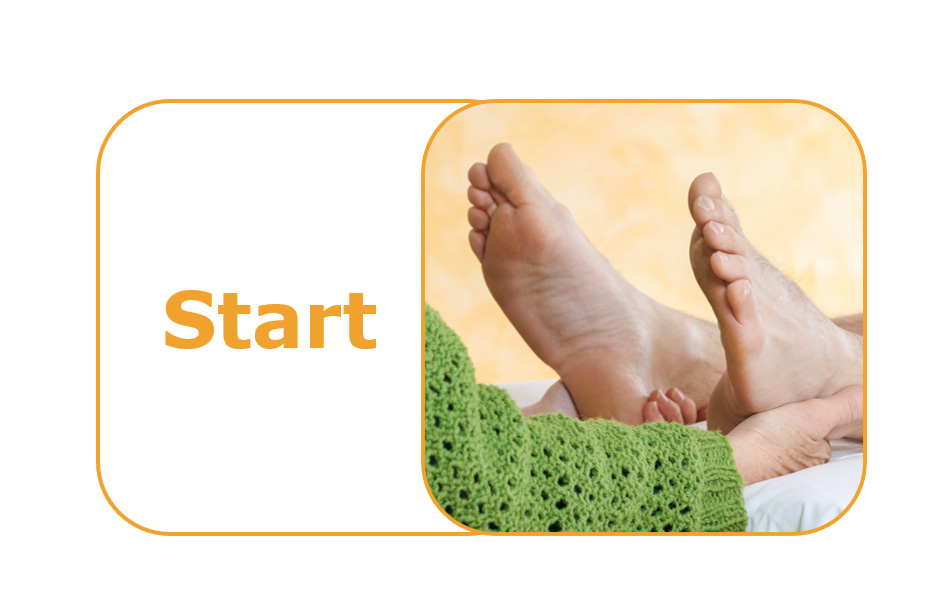
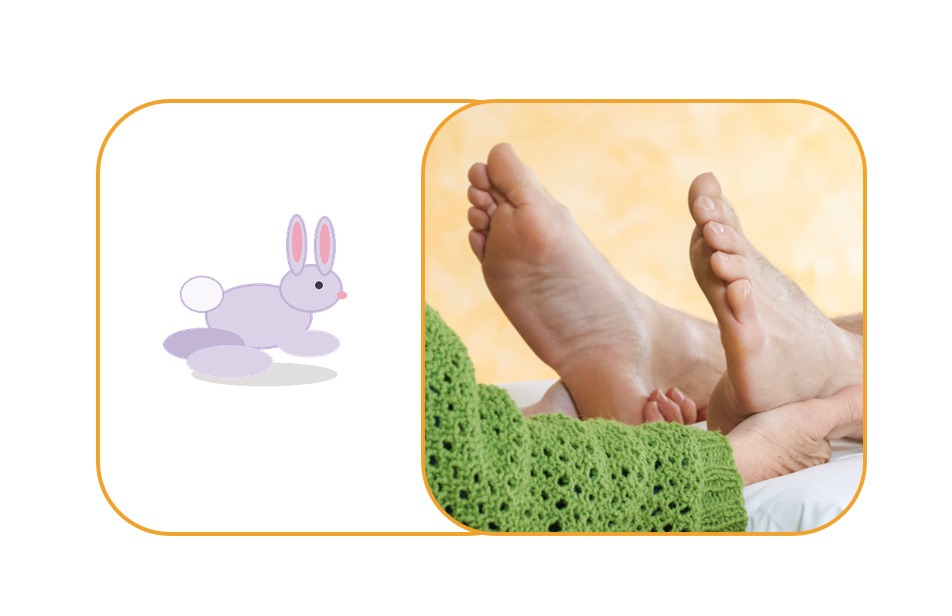
Domino3

diff --git a/games/10-step-domino/index.html b/games/10-step-domino/index.html
@@ -23,13 +23,23 @@
     .header-actions{display:flex;align-items:center;justify-content:flex-end;gap:10px;flex-wrap:wrap}.statusbar{display:flex;gap:10px;flex-wrap:wrap}.pill{background:#fff;border:1px solid var(--line);border-radius:13px;padding:13px 16px;font-weight:750;white-space:nowrap}
     .header-btn{border:1px solid var(--line);border-radius:13px;padding:13px 17px;font-weight:800;cursor:pointer;background:#fff;color:#263426;transition:.17s ease;white-space:nowrap}.header-btn:hover{transform:translateY(-1px);box-shadow:0 7px 16px rgba(55,85,34,.10)}.header-btn.primary{background:var(--green);border-color:var(--green);color:#fff;box-shadow:0 8px 20px rgba(112,185,30,.22)}.header-btn.primary:hover{background:var(--green-dark)}
     .app{width:min(1548px,calc(100% - 32px));margin:auto;padding:26px 0 42px}.instructions{display:flex;align-items:center;gap:16px;margin-bottom:18px;padding:16px 18px;border:1px solid #cfe3c4;border-radius:18px;background:rgba(255,255,255,.9);box-shadow:var(--shadow)}.instructions .rabbit{font-size:2.2rem}.instructions p{margin:0;line-height:1.5;color:var(--muted)}
-    .game-layout{display:grid;grid-template-columns:minmax(0,1fr) minmax(280px,360px);gap:24px;align-items:start}.board-panel,.tray-panel{background:var(--panel);border:1px solid #dce7d6;border-radius:24px;box-shadow:var(--shadow)}.board-panel{padding:18px;overflow:hidden}.board-wrap{position:relative;min-height:640px;padding:24px;border-radius:18px;background:radial-gradient(circle at 8% 10%,rgba(255,255,255,.9),transparent 25%),linear-gradient(180deg,#dff4ff 0%,#effbe6 48%,#c9ecad 100%);overflow:auto}
-    .path{position:relative;display:grid;grid-template-columns:repeat(2,minmax(270px,1fr));gap:26px 48px;min-width:650px;padding:32px 24px 70px}.slot{position:relative;min-height:178px;border:3px dashed rgba(93,159,21,.42);border-radius:28px;background:rgba(255,255,255,.54);display:grid;place-items:center;transition:.18s ease}.slot:nth-child(4n+3),.slot:nth-child(4n+4){direction:rtl}.slot::before{content:attr(data-step);position:absolute;left:10px;top:10px;width:31px;height:31px;border-radius:50%;display:grid;place-items:center;background:#fff;color:var(--green-dark);font-weight:900;box-shadow:0 4px 12px rgba(55,85,34,.15);z-index:3}.slot.dragover,.slot.selected-target{border-color:var(--gold);box-shadow:0 0 0 7px rgba(244,201,93,.25)}.slot.correct{border-style:solid;border-color:var(--green);background:#effbe8}.slot.wrong{border-color:var(--red);animation:shake .38s}.slot.empty::after{content:"Dominostein hier ablegen";color:#6f826a;font-weight:800}.slot img{display:block;width:100%;height:100%;min-height:172px;object-fit:contain;border-radius:24px;background:#fff}.slot.locked{pointer-events:none}
-    .paw{position:absolute;font-size:1.45rem;opacity:.22;transform:rotate(-18deg);pointer-events:none}.paw.active{opacity:.85;animation:pawPop .35s ease both}
-    .mascot{position:absolute;left:34px;top:4px;font-size:3.2rem;z-index:12;transform:translate(-50%,-50%);filter:drop-shadow(0 7px 5px rgba(0,0,0,.16));transition:left .55s cubic-bezier(.2,.8,.2,1),top .55s cubic-bezier(.2,.8,.2,1),transform .25s ease;pointer-events:none}.mascot.hop{transform:translate(-50%,-72%) rotate(-5deg) scale(1.06)}.mascot.sitting{transform:translate(-50%,-50%) scale(1.15)}
+    .game-layout{display:grid;grid-template-columns:minmax(0,1fr) minmax(280px,360px);gap:24px;align-items:start}.board-panel,.tray-panel{background:var(--panel);border:1px solid #dce7d6;border-radius:24px;box-shadow:var(--shadow)}.board-panel{padding:18px;overflow:hidden}.board-wrap{position:relative;min-height:640px;padding:24px;border-radius:18px;background:
+      radial-gradient(circle at 12% 13%,rgba(255,255,255,.88) 0 3%,transparent 3.2%),
+      radial-gradient(circle at 82% 18%,rgba(255,255,255,.72) 0 2.6%,transparent 2.8%),
+      radial-gradient(circle at 18% 76%,#fff4a8 0 5px,transparent 6px),
+      radial-gradient(circle at 77% 69%,#ffd6e2 0 5px,transparent 6px),
+      linear-gradient(180deg,#dff4ff 0%,#eaf8dc 39%,#b9df8d 100%);overflow:auto}
+    .board-wrap::after{content:"";position:absolute;inset:44% 0 0;pointer-events:none;background:repeating-linear-gradient(76deg,transparent 0 22px,rgba(75,135,36,.13) 23px 25px,transparent 26px 44px);opacity:.5}
+    .path{position:relative;z-index:2;display:grid;grid-template-columns:repeat(2,minmax(270px,1fr));gap:34px 58px;min-width:650px;padding:42px 24px 86px}.slot{position:relative;min-height:178px;border:3px dashed rgba(93,159,21,.52);border-radius:28px;background:rgba(255,255,255,.72);display:grid;place-items:center;transition:.18s ease;box-shadow:0 8px 18px rgba(61,105,35,.08)}.slot:nth-child(4n+3),.slot:nth-child(4n+4){direction:rtl}.slot::before{content:attr(data-step);position:absolute;left:10px;top:10px;width:31px;height:31px;border-radius:50%;display:grid;place-items:center;background:#fff;color:var(--green-dark);font-weight:900;box-shadow:0 4px 12px rgba(55,85,34,.15);z-index:3}.slot.dragover,.slot.selected-target{border-color:var(--gold);box-shadow:0 0 0 7px rgba(244,201,93,.25)}.slot.correct{border-style:solid;border-color:var(--green);background:#effbe8}.slot.wrong{border-color:var(--red);animation:shake .38s}.slot.empty::after{content:"Dominostein hier ablegen";color:#6f826a;font-weight:800}.slot img{display:block;width:100%;height:100%;min-height:172px;object-fit:contain;border-radius:24px;background:#fff}.slot.locked{pointer-events:none}
+    .paw{position:absolute;z-index:9;width:34px;height:42px;opacity:0;pointer-events:none;transform:rotate(var(--rot,-18deg)) scale(.35)}
+    .paw::before,.paw::after{content:"";position:absolute;background:#73563f}
+    .paw::before{width:18px;height:22px;border-radius:52% 52% 58% 58%;left:8px;bottom:1px}
+    .paw::after{width:8px;height:11px;border-radius:50%;left:3px;top:5px;box-shadow:10px -5px 0 #73563f,20px 0 0 #73563f}
+    .paw.active{opacity:.78;animation:pawPop .38s ease both}
+    .mascot{position:absolute;left:34px;top:4px;width:112px;height:94px;z-index:12;transform:translate(-50%,-50%);filter:drop-shadow(0 8px 5px rgba(0,0,0,.18));transition:left .62s cubic-bezier(.2,.8,.2,1),top .62s cubic-bezier(.2,.8,.2,1),transform .28s ease,opacity .2s ease;pointer-events:none;opacity:0;background:url("assets/campus-kaninchen-huepfend.png") center/contain no-repeat}.mascot.visible{opacity:1}.mascot.hop{transform:translate(-50%,-92%) rotate(-4deg) scale(1.1)}.mascot.sitting{width:104px;height:104px;background-image:url("assets/campus-kaninchen-sitzend.png");transform:translate(-50%,-63%) scale(1.08)}
     .tray-panel{padding:18px;position:sticky;top:14px}.tray-panel h2{font-size:1.15rem;margin:0 0 6px}.help{font-size:.92rem;color:var(--muted);margin:0 0 14px;line-height:1.45}.tray{display:grid;grid-template-columns:repeat(2,minmax(0,1fr));gap:10px;max-height:570px;overflow:auto;padding:2px}.card{appearance:none;border:3px solid transparent;border-radius:14px;background:#fff;padding:3px;box-shadow:0 6px 15px rgba(51,42,63,.12);cursor:grab;transition:.17s ease;overflow:hidden;position:relative}.card:hover{transform:translateY(-2px);box-shadow:0 10px 20px rgba(51,42,63,.16)}.card:active{cursor:grabbing}.card.selected{border-color:var(--gold);box-shadow:0 0 0 5px rgba(244,201,93,.2)}.card.used{opacity:.18;pointer-events:none;filter:grayscale(1)}.card.correct{display:none}.card img{width:100%;aspect-ratio:950/600;object-fit:cover;border-radius:9px;display:block}.message{min-height:58px;margin-top:14px;padding:11px 13px;border-radius:13px;background:#f7f4fa;color:var(--muted);font-weight:700;font-size:.92rem;display:flex;align-items:center}.message.success{background:#edf8e8;color:#3f7b28}.message.error{background:#fff0f0;color:#a72f2f}
     .modal{position:fixed;inset:0;background:rgba(39,49,36,.62);display:none;place-items:center;padding:20px;z-index:30}.modal.show{display:grid}.modal-card{background:white;border-radius:24px;padding:clamp(20px,4vw,36px);width:min(590px,100%);text-align:center;box-shadow:0 24px 80px rgba(0,0,0,.28)}.modal-rabbit{font-size:4rem}.modal-card h2{font-size:clamp(1.6rem,4vw,2.4rem);margin:8px 0}.modal-card p{color:var(--muted);line-height:1.55}.modal-card .header-btn{min-width:190px;margin-top:8px}.confetti{position:fixed;top:-20px;width:10px;height:18px;border-radius:3px;z-index:40;pointer-events:none;animation:fall 2.8s linear forwards}
-    @keyframes shake{25%{transform:translateX(-7px)}50%{transform:translateX(7px)}75%{transform:translateX(-4px)}}@keyframes pawPop{from{transform:scale(.3) rotate(-18deg)}to{transform:scale(1) rotate(-18deg)}}@keyframes fall{to{transform:translateY(110vh) rotate(720deg);opacity:.8}}
+    @keyframes shake{25%{transform:translateX(-7px)}50%{transform:translateX(7px)}75%{transform:translateX(-4px)}}@keyframes pawPop{from{opacity:0;transform:rotate(var(--rot,-18deg)) scale(.3)}to{opacity:.78;transform:rotate(var(--rot,-18deg)) scale(1)}}@keyframes fall{to{transform:translateY(110vh) rotate(720deg);opacity:.8}}
     @media(max-width:1200px){.back-link{left:0}.header-inner{padding-top:92px}}
     @media(max-width:980px){.header-inner{min-height:auto;align-items:flex-start;flex-direction:column;padding:88px 0 22px}.header-actions{justify-content:flex-start}.game-layout{grid-template-columns:1fr}.tray-panel{position:static}.tray{grid-template-columns:repeat(3,minmax(0,1fr));max-height:none}.board-wrap{min-height:560px}}
     @media(max-width:640px){.header-inner,.app{width:min(100% - 20px,1548px)}.header-inner{padding-top:82px}.back-link{top:14px;min-width:0;padding:13px 18px;font-size:.95rem}.header-actions,.statusbar{width:100%}.pill{flex:1;text-align:center;padding:11px 8px}.header-btn{flex:1;padding:12px 10px}.app{padding-top:16px}.instructions{align-items:flex-start}.board-panel{padding:7px;border-radius:18px}.board-wrap{padding:8px;min-height:480px}.path{grid-template-columns:1fr;min-width:310px;gap:18px;padding:42px 8px 65px}.slot:nth-child(n){direction:ltr}.slot{min-height:120px;border-radius:20px}.slot img{min-height:116px;border-radius:17px}.slot.empty::after{font-size:.88rem}.tray{grid-template-columns:repeat(2,1fr);gap:7px}.mascot{font-size:2.7rem}}
@@ -62,7 +72,7 @@
   <section class="game-layout">
     <div class="board-panel">
       <div class="board-wrap" id="boardWrap">
-        <div class="mascot" id="mascot" aria-label="Campus-Kaninchen">🐇</div>
+        <div class="mascot" id="mascot" aria-label="Campus-Kaninchen"></div>
         <div class="path" id="path" aria-label="Ablageplätze für die Dominosteine"></div>
       </div>
     </div>
@@ -105,9 +115,9 @@
   function makeCard(item){const b=document.createElement('button');b.type='button';b.className='card';b.dataset.id=item.id;b.draggable=true;b.setAttribute('aria-label',item.alt);b.innerHTML=`<img src="${item.src}" alt="${item.alt}">`;
     b.addEventListener('dragstart',e=>e.dataTransfer.setData('text/plain',item.id));b.addEventListener('click',()=>selectCard(item.id));return b}
   function selectCard(id){if(completed)return;document.querySelectorAll('.card').forEach(c=>c.classList.toggle('selected',c.dataset.id===id));selectedId=id;document.querySelectorAll('.slot:not(.locked)').forEach(s=>s.classList.add('selected-target'));message.textContent='Wähle jetzt einen freien Platz auf der Wiese.'}
-  function create(){path.innerHTML='';tray.innerHTML='';placements=Array(sequence.length).fill(null);selectedId=null;completed=false;scoreEl.textContent='0';attempts=0;attemptsEl.textContent='0';message.className='message';message.textContent='Beginne mit dem Startstein.';mascot.className='mascot';
+  function create(){path.innerHTML='';tray.innerHTML='';placements=Array(sequence.length).fill(null);selectedId=null;completed=false;scoreEl.textContent='0';attempts=0;attemptsEl.textContent='0';message.className='message';message.textContent='Beginne mit dem Kaninchen-Startstein.';mascot.className='mascot';document.querySelectorAll('.paw').forEach(p=>p.remove());
     sequence.forEach((_,i)=>{const slot=document.createElement('div');slot.className='slot empty';slot.dataset.index=i;slot.dataset.step=i+1;slot.addEventListener('dragover',e=>{e.preventDefault();if(!slot.classList.contains('locked'))slot.classList.add('dragover')});slot.addEventListener('dragleave',()=>slot.classList.remove('dragover'));slot.addEventListener('drop',e=>{e.preventDefault();slot.classList.remove('dragover');place(e.dataTransfer.getData('text/plain'),i)});slot.addEventListener('click',()=>{if(selectedId)place(selectedId,i)});path.appendChild(slot)});
-    shuffle(sequence).forEach(item=>tray.appendChild(makeCard(item)));requestAnimationFrame(()=>moveMascotToStart())}
+    shuffle(sequence).forEach(item=>tray.appendChild(makeCard(item)))}
   function place(id,index){if(completed||!id)return;const slot=path.children[index];if(slot.classList.contains('locked'))return;const oldIndex=placements.indexOf(id);if(oldIndex>=0){placements[oldIndex]=null;renderSlot(oldIndex)}
     const displaced=placements[index];placements[index]=id;if(displaced){const displacedCard=tray.querySelector(`[data-id="${displaced}"]`);if(displacedCard)displacedCard.classList.remove('used')}
     renderSlot(index);const card=tray.querySelector(`[data-id="${id}"]`);if(card)card.classList.add('used');selectedId=null;document.querySelectorAll('.card').forEach(c=>c.classList.remove('selected'));document.querySelectorAll('.slot').forEach(s=>s.classList.remove('selected-target'));message.textContent='Gut – ordne nun die übrigen Steine.'}
@@ -117,11 +127,12 @@
     message.className='message error';message.textContent=empty?`Schon ${correct} richtig. Es fehlen noch ${empty} Steine.`:`${correct} Steine sind richtig. Die anderen wackeln und dürfen neu geordnet werden.`}
   function centerOf(el){const b=boardWrap.getBoundingClientRect(),r=el.getBoundingClientRect();return{x:r.left-b.left+r.width/2+boardWrap.scrollLeft,y:r.top-b.top+r.height/2+boardWrap.scrollTop}}
   function moveMascotToStart(){const first=path.children[0];if(!first)return;const p=centerOf(first);mascot.style.left=(p.x-55)+'px';mascot.style.top=(p.y-85)+'px'}
-  async function animateRabbit(){for(let i=0;i<sequence.length;i++){const slot=path.children[i],p=centerOf(slot);mascot.classList.add('hop');mascot.style.left=p.x+'px';mascot.style.top=(p.y-92)+'px';const paw=document.createElement('span');paw.className='paw active';paw.textContent='🐾';paw.style.left=(p.x-10)+'px';paw.style.top=(p.y+45)+'px';boardWrap.appendChild(paw);await wait(560);mascot.classList.remove('hop');await wait(150)}mascot.classList.add('sitting');mascot.textContent='🐇';confetti();awardPoints();await wait(700);winModal.classList.add('show')}
+  function addPawBetween(a,b,index){const dx=b.x-a.x,dy=b.y-a.y;const angle=Math.atan2(dy,dx)*180/Math.PI+90;[.28,.55,.8].forEach((t,j)=>{const paw=document.createElement('span');paw.className='paw';paw.style.left=(a.x+dx*t-17)+'px';paw.style.top=(a.y+dy*t-10+(j%2?8:-2))+'px';paw.style.setProperty('--rot',(angle+(j%2?9:-9))+'deg');boardWrap.appendChild(paw);setTimeout(()=>paw.classList.add('active'),80+j*90+index*40)})}
+  async function animateRabbit(){const points=[...path.children].map(centerOf);mascot.className='mascot visible';mascot.style.left=points[0].x+'px';mascot.style.top=(points[0].y+2)+'px';await wait(650);for(let i=1;i<points.length;i++){const a=points[i-1],b=points[i];addPawBetween(a,b,i);mascot.classList.add('hop');mascot.style.left=b.x+'px';mascot.style.top=(b.y-16)+'px';await wait(620);mascot.classList.remove('hop');await wait(145)}mascot.classList.add('sitting');await wait(750);mascot.style.opacity='0';confetti();awardPoints();await wait(450);winModal.classList.add('show')}
   function awardPoints(){if(!window.ZITPoints){pointsMessage.textContent='';return}const result=window.ZITPoints.award('10-step-domino',20,'10-Step-Domino');pointsMessage.textContent=result.awarded?'Du erhältst 20 Punkte für deine Schmetterlingswiese. 🦋':'Die 20 Punkte für dieses Spiel hast du bereits gesammelt. 🦋'}
   function confetti(){const chars=['🦋','🌿','🌼','•'];for(let i=0;i<34;i++){const e=document.createElement('span');e.className='confetti';e.textContent=chars[Math.floor(Math.random()*chars.length)];e.style.left=Math.random()*100+'vw';e.style.animationDelay=Math.random()*.8+'s';e.style.fontSize=(12+Math.random()*15)+'px';document.body.appendChild(e);setTimeout(()=>e.remove(),3800)}}
   function wait(ms){return new Promise(r=>setTimeout(r,ms))}
-  document.getElementById('checkBtn').addEventListener('click',check);document.getElementById('resetBtn').addEventListener('click',create);document.getElementById('playAgainBtn').addEventListener('click',()=>{winModal.classList.remove('show');create()});window.addEventListener('resize',()=>{if(!completed)moveMascotToStart()});create();
+  document.getElementById('checkBtn').addEventListener('click',check);document.getElementById('resetBtn').addEventListener('click',create);document.getElementById('playAgainBtn').addEventListener('click',()=>{winModal.classList.remove('show');create()});create();
 })();
 </script>
 </body>
